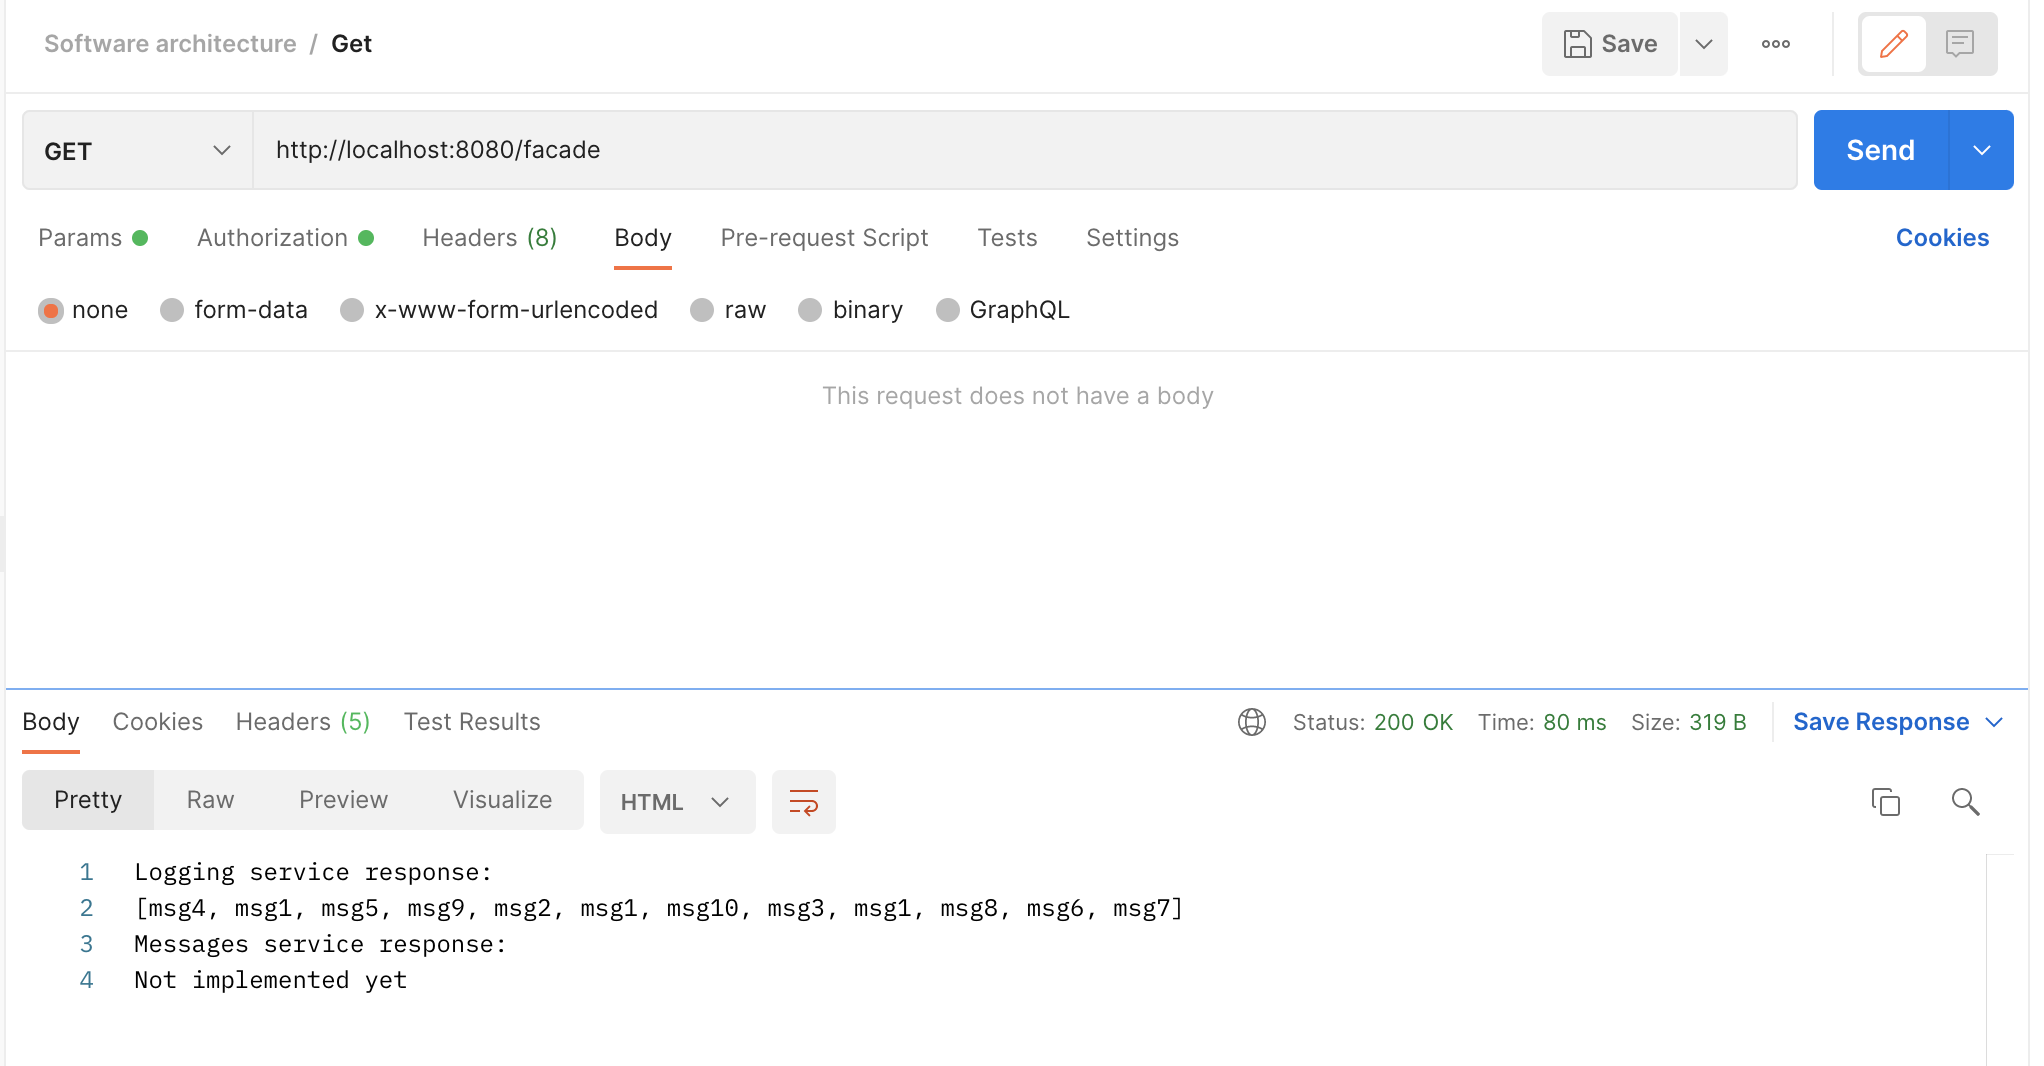
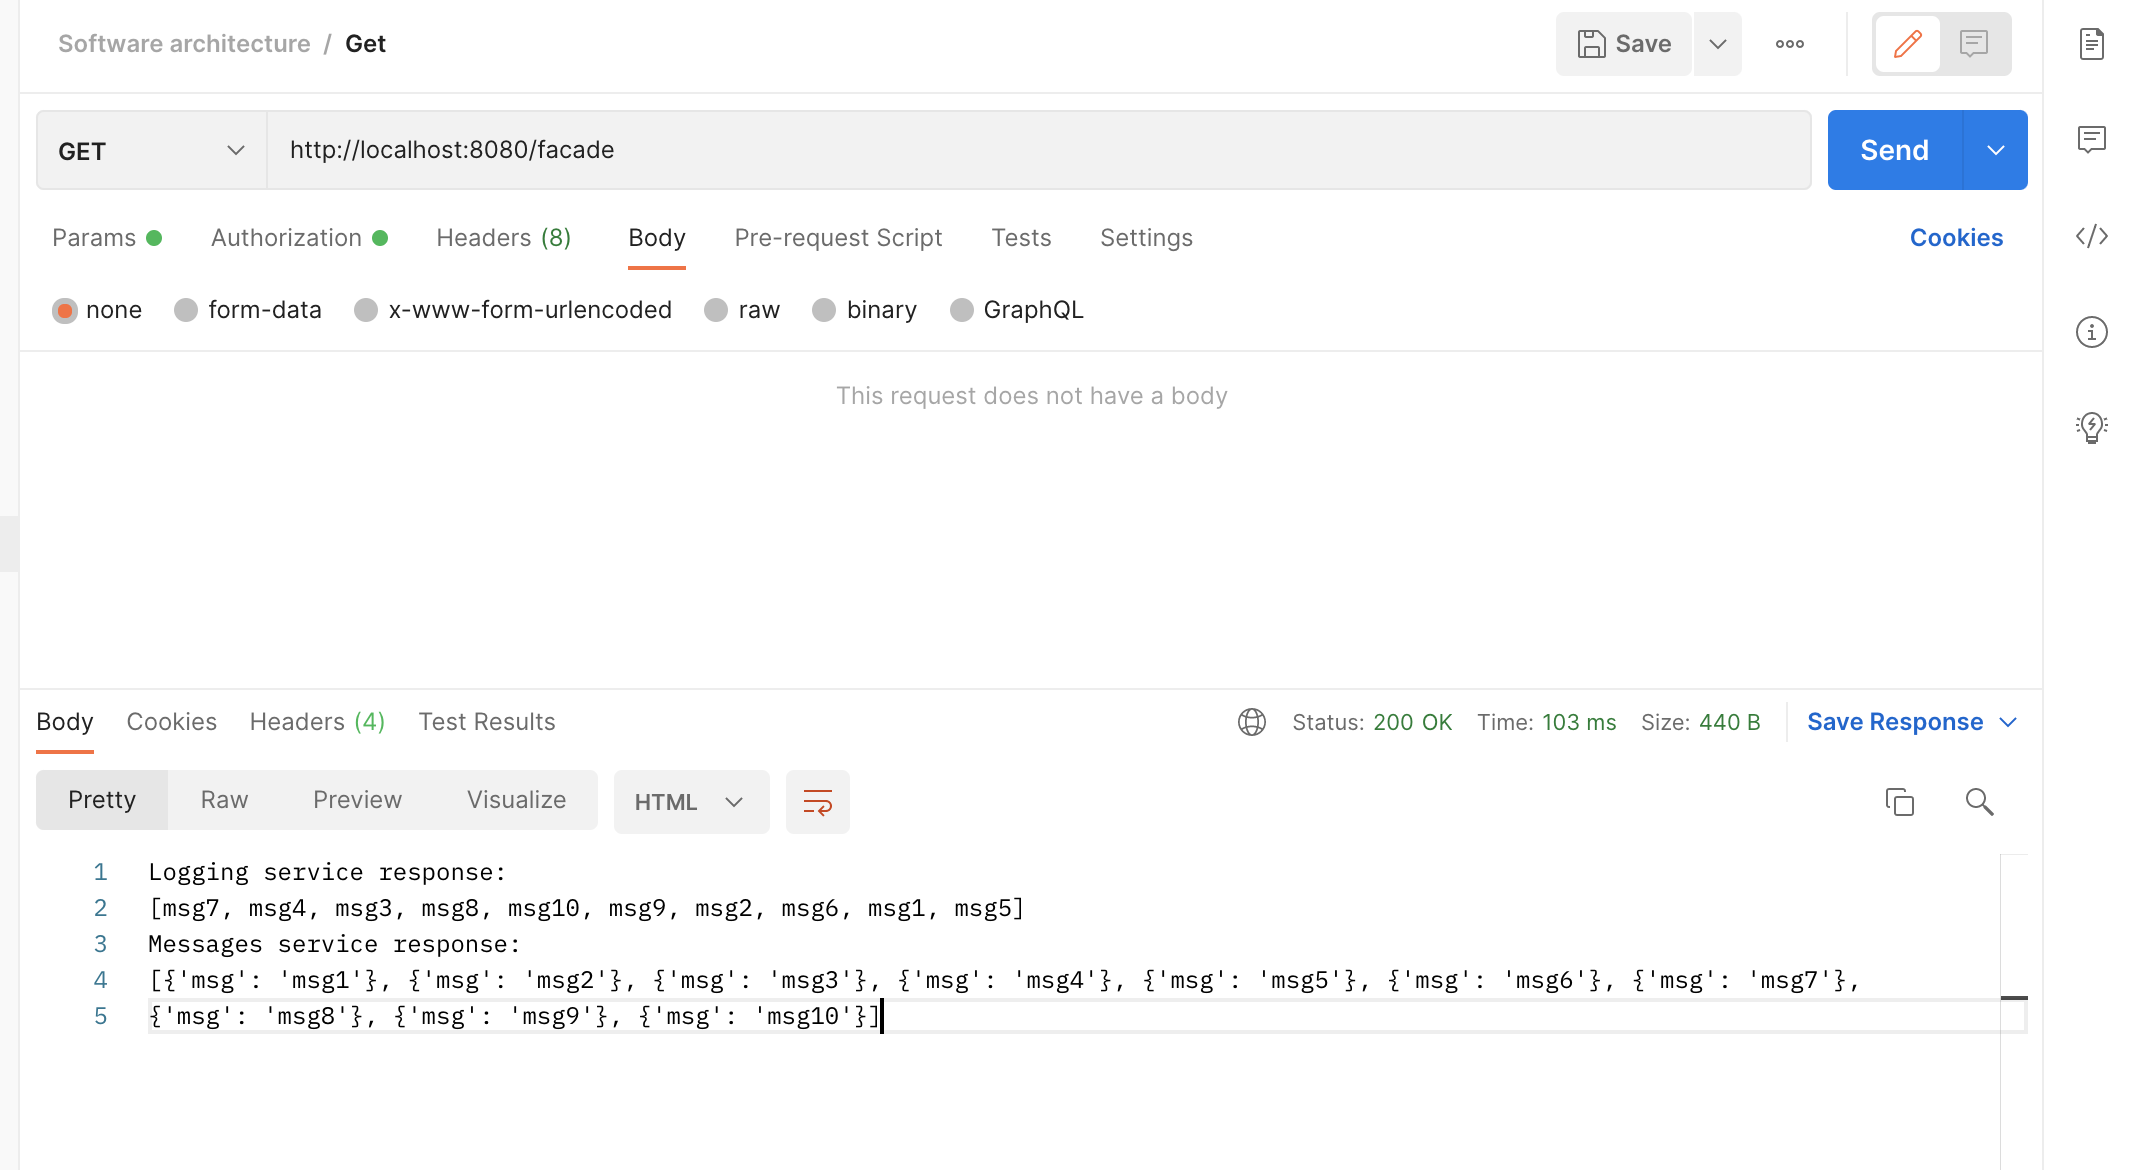
Added messages service support with Hazelcast bounded queue.

diff --git a/facade_service/app.py b/facade_service/app.py
@@ -2,11 +2,12 @@ from flask import Flask, request
 import requests
 import uuid
 from random import choice
+import hazelcast
 
 
 app = Flask(__name__)
-logging_urls = ["http://localhost:8082/logging", "http://localhost:8083/logging", "http://localhost:8084/logging"]
-messages_url = "http://localhost:8081/messages"
+logging_urls = ["http://localhost:8081/logging", "http://localhost:8082/logging", "http://localhost:8083/logging"]
+messages_urls = ["http://localhost:8084/messages", "http://localhost:8085/messages"]
 
 
 class Message:
@@ -23,11 +24,23 @@ class Message:
 
 @app.route("/facade", methods=['GET', 'POST'])
 def facade() -> str:
+    # starting Hazelcast Client and connecting it to the running clusters
+    client = hazelcast.HazelcastClient(cluster_name="dev",
+                                       cluster_members=[
+                                           # "127.0.0.1:5701",
+                                           "127.0.0.1:5702",
+                                           "127.0.0.1:5703"
+                                       ])
+    print("Connected to the clusters")
+
+    bounded_queue = client.get_queue("my-bounded-queue").blocking()
+
     if request.method == 'POST':
         # receive message from request json
         msg = Message(request.json.get("msg", None))
         print(f"Facade service received message: {msg.text()}")
 
+        # LOGGING SERVICE
         # send this message to logging service with POST request
         logging_post_dict = {"text": msg.text(), "uuid": msg.uuid()}
         # select random logging service to work with
@@ -35,13 +48,18 @@ def facade() -> str:
         print(f"Facade service sent message to: {logging_url}")
         response = requests.post(logging_url, json=logging_post_dict)
 
+        # MESSAGES SERVICE
+        bounded_queue.put(f"{request.get_json()}")
+
         return response.text
 
     elif request.method == 'GET':
         # receive all messages from logging service with GET request
         logging_url = choice(logging_urls)
         logging_response = requests.get(logging_url).text
+
         # receive response from messages service with GET request
+        messages_url = choice(messages_urls)
         messages_response = requests.get(messages_url).text
 
         # merge and return responses

diff --git a/messages_service/app.py b/messages_service/app.py
@@ -1,15 +1,46 @@
 from flask import Flask, request
+import hazelcast
 
 
 app = Flask(__name__)
+messages_list = []
 
 
 @app.route("/messages", methods=['GET'])
 def messages() -> str:
+    global messages_list
+    # starting Hazelcast Client and connecting it to the running clusters
+    client = hazelcast.HazelcastClient(cluster_name="dev",
+                                       cluster_members=[
+                                           # "127.0.0.1:5701",
+                                           "127.0.0.1:5702",
+                                           "127.0.0.1:5703"
+                                       ])
+    print("Connected to the clusters")
+
+    bounded_queue = client.get_queue("my-bounded-queue").blocking()
+
     if request.method == 'GET':
-        return "Not implemented yet"
+        is_empty = bounded_queue.is_empty()
+
+        while not is_empty:
+            text = bounded_queue.take()
+            print(f"Messages service received message: {text}")
+            messages_list.append(text)
+
+            is_empty = bounded_queue.is_empty()
+
+        # return all messages
+        msgs = ""
+        for value in messages_list:
+            msgs += value
+            msgs += ", "
+
+        return "[" + msgs[:-2] + "]"
+
     return f"{request.method} method is not supported"
 
 
 if __name__ == '__main__':
-    app.run(host='0.0.0.0', port=8081)
+    app.run(host='0.0.0.0', port=8084)
+    # app.run(host='0.0.0.0', port=8085)

diff --git a/logging_service/app.py b/logging_service/app.py
@@ -50,6 +50,6 @@ def logging() -> str:
 
 
 if __name__ == '__main__':
-    app.run(host='0.0.0.0', port=8082)
+    app.run(host='0.0.0.0', port=8081)
+    # app.run(host='0.0.0.0', port=8082)
     # app.run(host='0.0.0.0', port=8083)
-    # app.run(host='0.0.0.0', port=8084)
